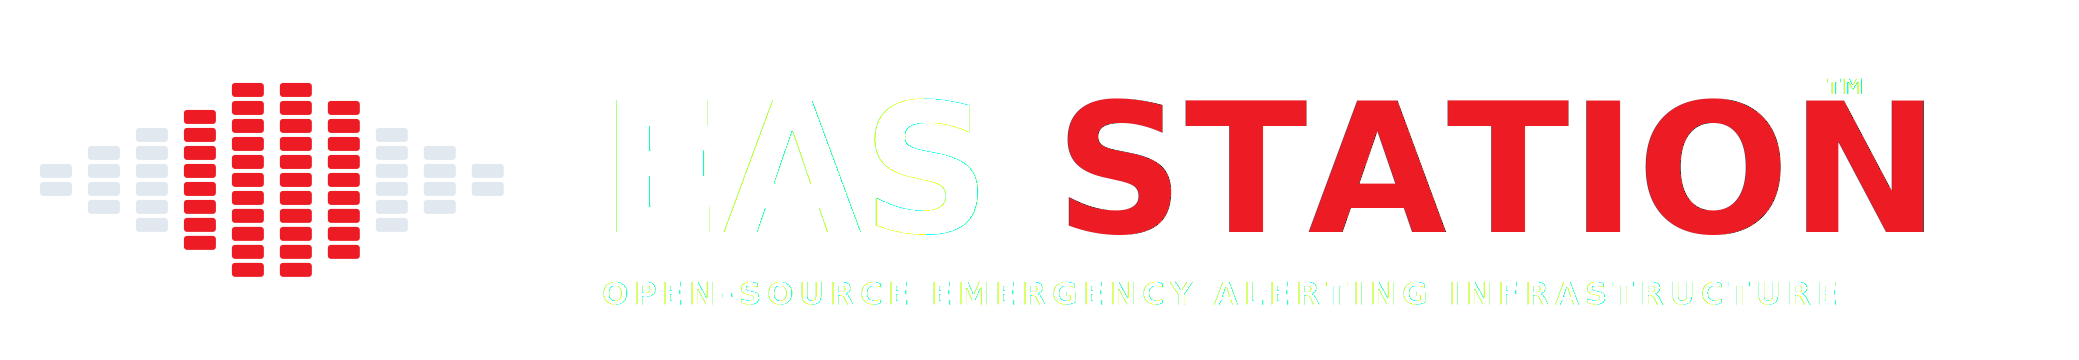
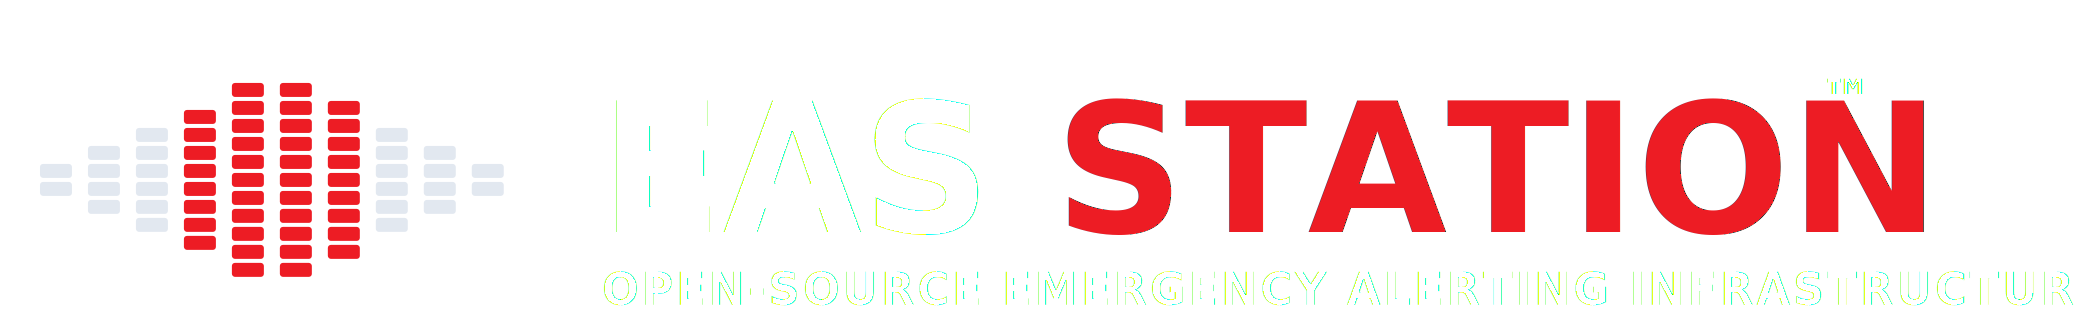
feat(brand): boost wordmark readability in navbar and hero
- Enlarge tagline (32→44px, weight 600→700, tighter letter-spacing)
  so "OPEN-SOURCE EMERGENCY ALERTING INFRASTRUCTURE" reads cleanly
  at common render sizes instead of collapsing to pixel mud.
- Trim wordmark SVG viewBox (360→325) to drop dead bottom whitespace
  and gain ~10% effective size at the same container height.
- Bump navbar logo 56→72px and about-hero logo max-width 460→680px
  with a touch more card padding.
- Re-rasterize companion PNG used by the alert share-image renderer
  to match the new viewBox.

diff --git a/static/css/styles.css b/static/css/styles.css
@@ -1631,7 +1631,7 @@ small,
 
 .navbar-brand .logo-wordmark,
 .navbar-brand .brand-logo {
-    height: 56px;
+    height: 72px;
     width: auto;
 }
 
@@ -7550,9 +7550,9 @@ a:not(.btn):not(.nav-link):not(.dropdown-item):hover {
 }
 .eas-hero-logo,
 .about-hero-logo {
-    max-width: 460px;
+    max-width: 680px;
     width: 100%;
-    padding: 1rem 1.5rem;
+    padding: 1.25rem 1.75rem;
     border-radius: var(--radius-xl);
     background: rgba(255, 255, 255, 0.94);
     backdrop-filter: blur(6px);
